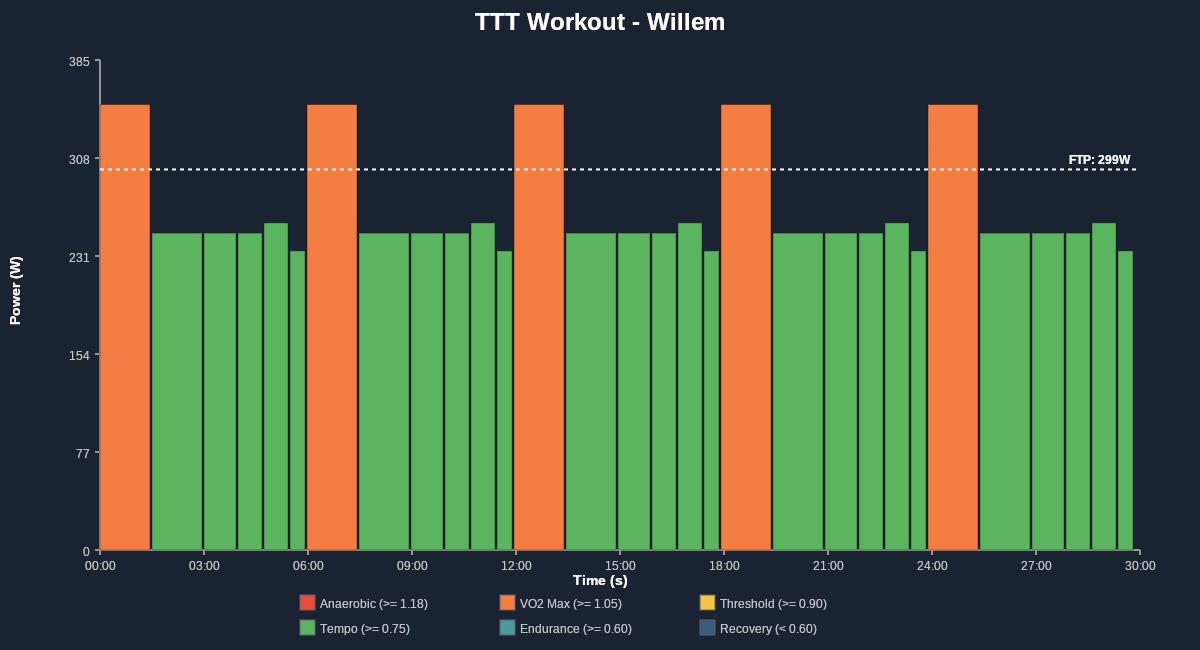
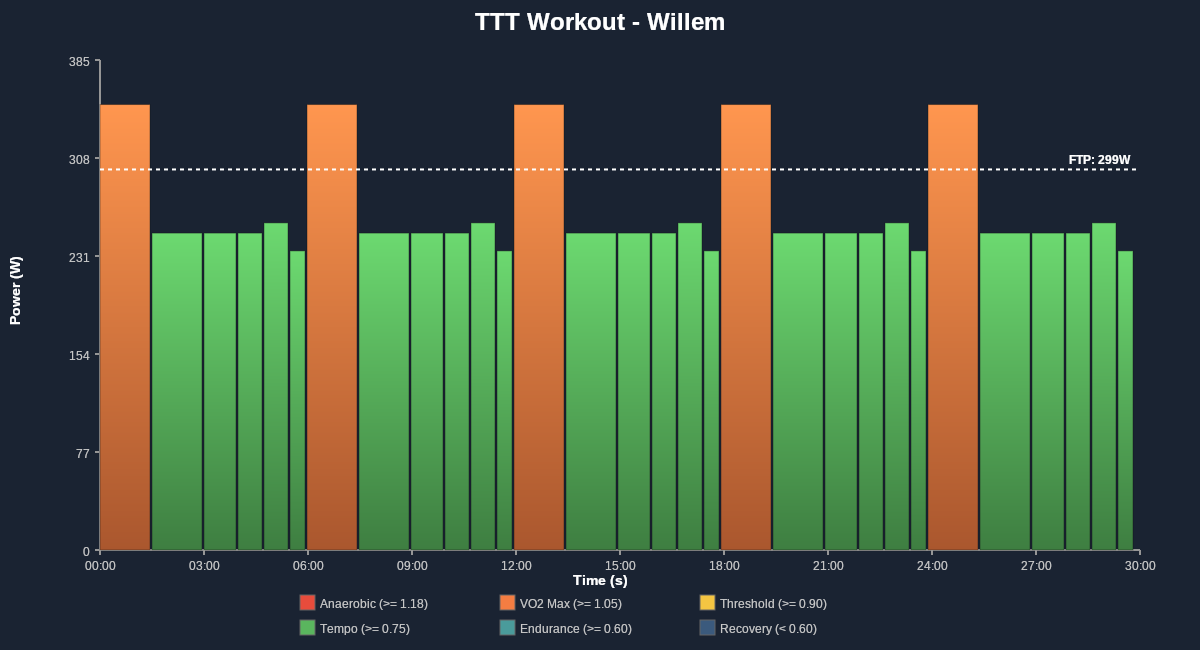
Add gradient shading to bars and create sample images
- Add vertical gradient to bars (darker at bottom, lighter at top)
- Generate sample images with Alice and Bob to showcase more zones
- Update main example visualization with gradient effect
- Alice shows Anaerobic (1.20) and VO2 Max (1.10) zones
- Bob shows Threshold (1.00) and VO2 Max (1.10) zones

diff --git a/ZwiftTTTSim.Core/Services/ImageExporter.cs b/ZwiftTTTSim.Core/Services/ImageExporter.cs
@@ -155,19 +155,40 @@ public class ImageExporter
                 _ => new SKColor(59, 90, 125)             // Blue #3b5a7d for Recovery
             };
 
-            // Draw bar
-            using var barPaint = new SKPaint
-            {
-                Color = barColor,
-                IsAntialias = true
-            };
-            
+            // Draw bar with gradient (darker at bottom, lighter at top)
             var barRect = new SKRect(
                 currentX,
                 chartBottom - barHeight,
                 currentX + actualBarWidth,
                 chartBottom
             );
+            
+            // Create gradient from darker (bottom) to lighter (top)
+            var darkerColor = new SKColor(
+                (byte)(barColor.Red * 0.7),
+                (byte)(barColor.Green * 0.7),
+                (byte)(barColor.Blue * 0.7)
+            );
+            var lighterColor = new SKColor(
+                (byte)Math.Min(255, barColor.Red * 1.2),
+                (byte)Math.Min(255, barColor.Green * 1.2),
+                (byte)Math.Min(255, barColor.Blue * 1.2)
+            );
+            
+            using var gradient = SKShader.CreateLinearGradient(
+                new SKPoint(currentX, chartBottom),           // Start at bottom
+                new SKPoint(currentX, chartBottom - barHeight), // End at top
+                new[] { darkerColor, lighterColor },
+                new[] { 0f, 1f },
+                SKShaderTileMode.Clamp
+            );
+            
+            using var barPaint = new SKPaint
+            {
+                Shader = gradient,
+                IsAntialias = true
+            };
+            
             canvas.DrawRect(barRect, barPaint);
 
             // Draw bar outline (subtle dark outline for definition)
